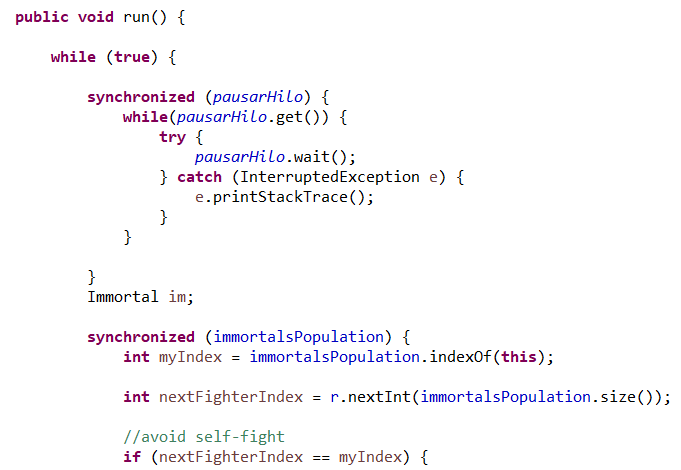
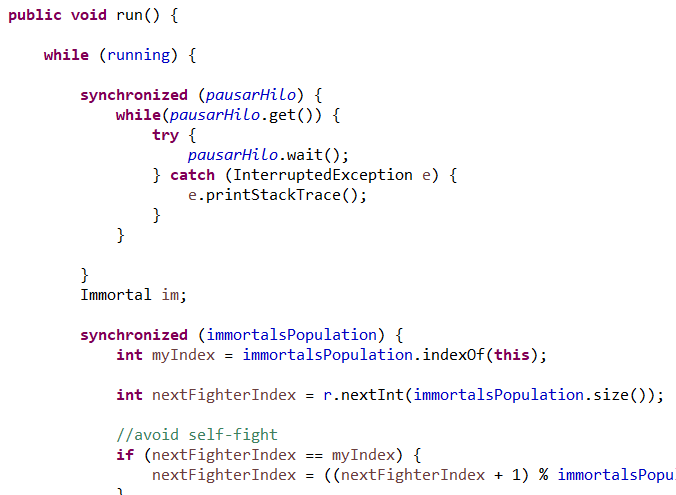
Avanzando parte dos

diff --git a/src/main/java/edu/eci/arsw/highlandersim/Immortal.java b/src/main/java/edu/eci/arsw/highlandersim/Immortal.java
@@ -16,6 +16,12 @@ public class Immortal extends Thread {
     
     public static AtomicBoolean pausarHilo;
     
+    private boolean vivo = true;
+    
+    private static final Object tieLock = new Object(); 
+    
+    private boolean running = true;
+    
     private final String name;
 
     private final Random r = new Random(System.currentTimeMillis());
@@ -29,11 +35,12 @@ public class Immortal extends Thread {
         this.health = health;
         this.defaultDamageValue=defaultDamageValue;
         this.pausarHilo = pausarHilo;
+ 
     }
 
     public void run() {
 
-        while (true) {
+        while (running) {
         	
         	synchronized (pausarHilo) {
 				while(pausarHilo.get()) {
@@ -59,7 +66,7 @@ public class Immortal extends Thread {
 
                 im = immortalsPopulation.get(nextFighterIndex);
 
-                this.fight(im);
+                this.transferirVida(im);
 			}
 
             
@@ -73,8 +80,54 @@ public class Immortal extends Thread {
         }
 
     }
+    
+    public void setRunning(boolean running) {
+    	this.running = running;
+    }
 
-    public void fight(Immortal i2) {
+    public void transferirVida(Immortal i2) {
+    	Immortal im = this;
+    	
+    	class Helper {
+    		public void fight(Immortal i2) {
+
+    	        if (i2.getHealth() > 0) {
+    	            i2.changeHealth(i2.getHealth() - defaultDamageValue);
+    	            if(i2.getHealth() == 0) vivo = false;
+    	            health += defaultDamageValue;
+    	            updateCallback.processReport("Fight: " + this + " vs " + i2+"\n");
+    	        } else {
+    	            updateCallback.processReport(this + " says:" + i2 + " is already dead!\n");
+    	        }
+
+    	    }
+    	}
+    	int fromHash = System.identityHashCode(this);
+		int toHash = System.identityHashCode(i2);
+		
+		if (fromHash < toHash) {
+			synchronized (this) {
+				synchronized (i2) {
+					new Helper().fight(i2);
+				}
+			}
+		} else if (fromHash > toHash) {
+			synchronized (i2) {
+				synchronized (this) {
+					new Helper().fight(i2);
+				}
+			}
+		} else {
+			synchronized (tieLock) {
+				synchronized (this) {
+					synchronized (i2) {
+						new Helper().fight(i2);
+					}
+				}
+			}
+		}
+    }
+    /*public void fight(Immortal i2) {
 
         if (i2.getHealth() > 0) {
             i2.changeHealth(i2.getHealth() - defaultDamageValue);
@@ -84,7 +137,7 @@ public class Immortal extends Thread {
             updateCallback.processReport(this + " says:" + i2 + " is already dead!\n");
         }
 
-    }
+    }*/
 
     public void changeHealth(int v) {
         health = v;

diff --git a/src/main/java/edu/eci/arsw/highlandersim/ControlFrame.java b/src/main/java/edu/eci/arsw/highlandersim/ControlFrame.java
@@ -139,6 +139,15 @@ public class ControlFrame extends JFrame {
 
         JButton btnStop = new JButton("STOP");
         btnStop.setForeground(Color.RED);
+        btnStop.addActionListener(new ActionListener() {
+			public void actionPerformed(ActionEvent e) {
+				for(Immortal im : immortals) {
+					im.setRunning(false);
+				}
+				btnPauseAndCheck.setEnabled(false);
+				btnResume.setEnabled(false);
+			}
+		});
         toolBar.add(btnStop);
 
         scrollPane = new JScrollPane();

diff --git a/README.md b/README.md
@@ -41,3 +41,16 @@
 ![](https://raw.githubusercontent.com/Nattpalacios/ARSW-Lab3/master/Imagenes/7.PNG)
 ![](https://raw.githubusercontent.com/Nattpalacios/ARSW-Lab3/master/Imagenes/8.PNG)
 
+6. Posibles regiones críticas. 
+- En el momento en que el inmortal pelea, en el método 'fight', como se cambian la vida del atacante y del que ataca, se puede dar el caso donde más de un hilo esté modificando estos valores al mismo tiempo.
+
+11- Para implementar STOP se creó el booleano 'running', el cual inicia en true indicando que el programa está activo.
+
+- En Immortal:
+
+![](https://raw.githubusercontent.com/Nattpalacios/ARSW-Lab3/master/Imagenes/9.PNG)
+![](https://raw.githubusercontent.com/Nattpalacios/ARSW-Lab3/master/Imagenes/10.PNG)
+
+- En ControlFrame:
+
+![](https://raw.githubusercontent.com/Nattpalacios/ARSW-Lab3/master/Imagenes/11.PNG)
